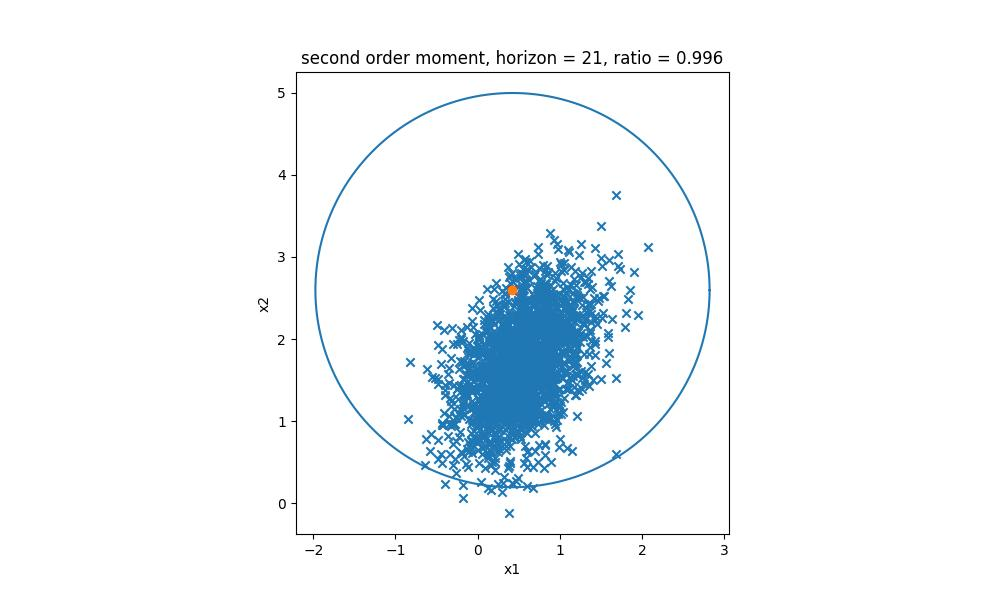
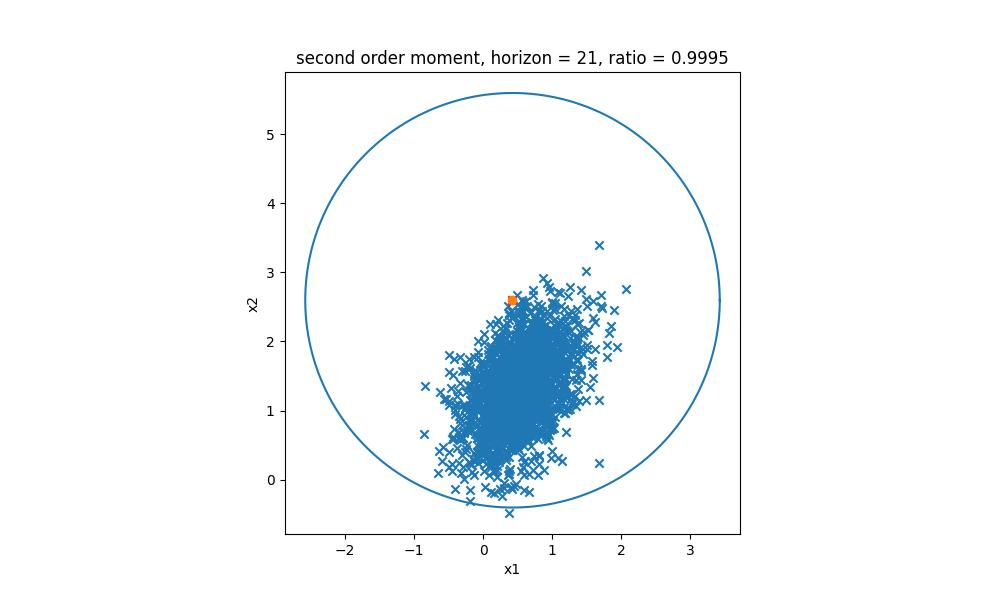
update

diff --git a/chi/chi1.py b/chi/chi1.py
@@ -1,0 +1,183 @@
+import numpy as np
+import matplotlib.pyplot as plt
+import cvxpy as cp
+from scipy.optimize import minimize
+from scipy.stats import norm
+from scipy.linalg import block_diag
+import matplotlib.patches as patches
+import math
+import os
+from datagen import get_system
+from functools import reduce
+from plot import opt, diff
+from scipy.integrate import quad
+from scipy.stats import chi2
+from scipy.stats import norm
+from matplotlib.patches import Circle
+from scipy.stats import ncx2
+from scipy.optimize import brentq
+
+
+n, m = 2, 2
+x_0 = np.array([0.0, 0.0])
+sigma_0 = np.eye(n) * 0.1
+errors = []
+
+delta = 0.9
+Q = np.diag([2.0, 3.0])
+# T = 10
+name = 'stable'
+gamma = 0.1
+# N = 21
+M = 1000
+
+T_list = range(1, 40, 5)
+data_folder = 'data_{}'.format(name)
+os.makedirs(data_folder, exist_ok = True)
+dev = []
+dev1 = []
+cost = []
+cost1 = []
+
+for T in T_list:
+
+    A, B, CT = get_system(name, n, m, T, seed = 0)
+    NT = np.eye(n)
+    for i in range(1, T):
+        NT = np.hstack((NT, np.linalg.matrix_power(A, i)))
+    N = (2* T) + 1
+    u = np.random.randn(m * T, 1)
+    Q_tilde = block_diag(*([Q] * T))
+    # Compute reachable final state
+    x_f = np.linalg.matrix_power(A, T) @ x_0.reshape(-1, 1) + NT @ u
+    x_f =  x_f.reshape(-1, 1)
+
+    U  = np.random.rand(m*T, N)
+
+    mu = np.zeros((n, n))
+    var_sum = np.zeros((n, n))
+    X = np.zeros((n, n))
+    for i in range(0, N):
+        sum = np.zeros(n)
+        for j in range(0, M):
+            w = np.random.multivariate_normal(np.zeros(n*T), np.eye(n*T)*0.1)
+            xT = CT @ U[:, i] + NT @ w
+            if i == N - 1:
+                X = np.hstack((X, xT.reshape(-1,1)))
+            sum = sum + xT
+        mu_i = (1/M) * sum   
+        mu = np.hstack((mu, mu_i.reshape(-1, 1))) 
+
+
+    for j in range(0, M):
+        var_sum = var_sum + (X[:, n+j]- mu_i) @ (X[:, n+j] - mu_i).T
+    Sigma = (1/M) * var_sum
+    
+    b =  -1 *  x_f
+    b = b.reshape(-1, 1)
+    sigma_w_base = np.eye(n*T) * 0.1
+    # --------- CVXPY FIXED PART ---------
+
+    alpha = cp.Variable((N, 1))
+    u = cp.Variable((m*T, 1))
+    # ---- Objective (make it DCP safe) ----
+    P = U.T @ Q_tilde @ U
+    P = 0.5 * (P + P.T)                    # enforce symmetry
+    P = P + 1e-8 * np.eye(N)               # ensure PSD
+
+    objective = cp.Minimize(cp.quad_form(alpha, P))
+    objective1 = cp.Minimize(cp.quad_form(u, Q_tilde))
+
+    # ---- Constraint (Mahalanobis term) ----
+    mu_eff = mu[:, n:]                     # your intended slice
+    x_f_col = x_f.reshape(-1, 1)
+
+    Sigma_reg = Sigma + 1e-6 * np.eye(n)   # stabilize
+    Sigma_inv = np.linalg.inv(Sigma_reg)
+    Sigma_inv = 0.5 * (Sigma_inv + Sigma_inv.T)  # enforce symmetry
+    
+    sigma_x = NT @ sigma_w_base @ NT.T
+    f = cp.quad_form(mu_eff @ alpha - x_f_col, Sigma_inv)
+    f1 = cp.quad_form(CT@ u + b, np.linalg.inv(sigma_x))
+
+    # ---- Problem ----
+    prob = cp.Problem(objective, [f <= gamma])
+    prob1 = cp.Problem(objective1, [f1 <= gamma])
+    prob.solve(solver=cp.SCS, verbose=False)
+    prob1.solve(solver = cp.SCS, verbose=False)
+
+    alpha_hat = alpha.value
+    u_star = u.value.reshape(-1,1)
+    errors.append(np.linalg.norm(U @ alpha_hat - u_star))
+
+    if alpha_hat is None:
+           print(f"Convex solver failed at T={T}")
+
+    # -------------------------------------
+   
+    
+    x1 = []
+    x2 = []
+    for j in range(0, 100):
+        w = np.random.multivariate_normal(np.zeros(n*T), np.eye(n*T)*0.1)
+        x1T = CT @ U @ alpha_hat + NT @ w
+        x2T = CT @ u_star + NT @ w
+        x1.append(np.linalg.norm(x1T - x_f))
+        x2.append(np.linalg.norm(x2T - x_f))
+
+    hat_norm = float(alpha_hat.T @ U.T @ Q_tilde @ U @ alpha_hat)
+    u_norm = float(u_star.T @ Q_tilde @ u_star)
+    cost.append(hat_norm)
+    cost1.append(u_norm)
+
+    dev.append(np.average(x1))
+    dev1.append(np.average(x2))
+
+    center = (x_f[0], x_f[1])
+
+    theta = np.linspace(0, 2*np.pi, 400)
+    x = center[0] + gamma * np.cos(theta)
+    y = center[1] + gamma * np.sin(theta)
+
+
+
+
+    # filename1 = os.path.join(data_folder, 'data-{}-{}.jpeg'.format(delta, T))
+    # plt.figure(figsize = (10,6))
+    # plt.scatter(s1[:, 0], s1[:, 1], marker = 'x')
+    # plt.scatter(x_f[0], x_f[1], marker = 'x', color = 'red')
+    # plt.plot(x, y)
+    # plt.scatter(*center)
+    # plt.gca().set_aspect('equal', adjustable='box')
+    # circle = patches.Circle((x_f[0], x_f[1]), gamma, 
+    #                     fill=False, linestyle='--', color='k', label=f'ε-ball (ε={gamma})')
+    # plt.xlabel('x1')
+    # plt.ylabel('x2')
+    # # plt.title('second order moment, horizon = {}, ratio = {}'.format(t, count1/2000))
+
+    # plt.savefig(filename1)
+
+
+
+plt.figure(figsize = (10, 6))
+plt.plot(T_list, cost, label = 'data')
+plt.plot(T_list, cost1, label = 'true')
+plt.xlabel('time horizon')
+plt.ylabel('cost')
+plt.legend()
+plt.savefig('cost_data.jpeg')
+
+plt.figure(figsize = (10, 6))
+plt.plot(T_list, dev, label = 'deviation')
+plt.plot(T_list, dev1, label = 'true')
+plt.xlabel('time horizon')
+plt.ylabel('dev')
+plt.legend()
+plt.savefig('data_dev.jpeg')    
+
+plt.figure(figsize = (10, 6))
+plt.plot(T_list, errors, label = 'errors')
+plt.xlabel('time horizon')
+plt.ylabel('error')
+plt.legend()
+plt.savefig('error.jpeg')

diff --git a/chi/chi3.py b/chi/chi3.py
@@ -37,7 +37,7 @@ state_folder = 'states_{}'.format(name)
 diff_folder = 'diffs_{}'.format(name)
 delta_folder = 'traj_{}'.format(delta)
 exact_folder = 'traj_{}'.format(delta)
-epsilon = 2.4
+epsilon = 3.0
 os.makedirs(norm_folder, exist_ok=True)
 os.makedirs(state_folder, exist_ok=True)
 os.makedirs(diff_folder, exist_ok=True)
@@ -544,4 +544,7 @@ plt.grid(True)
 plt.xticks(T_list)
 plt.savefig('lambda_star.jpeg')
 plt.close()
+
+
+
 
